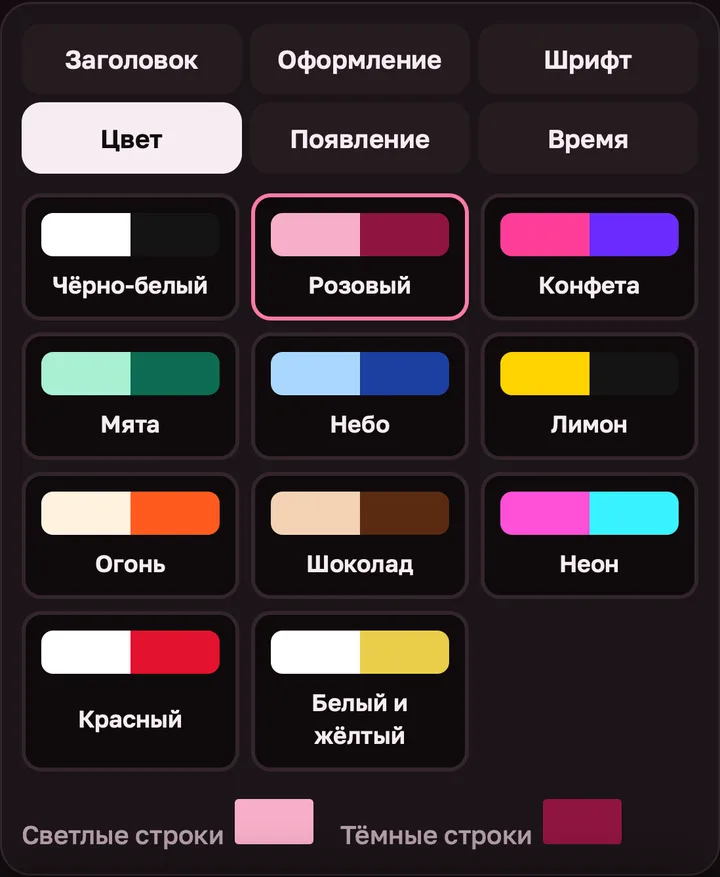
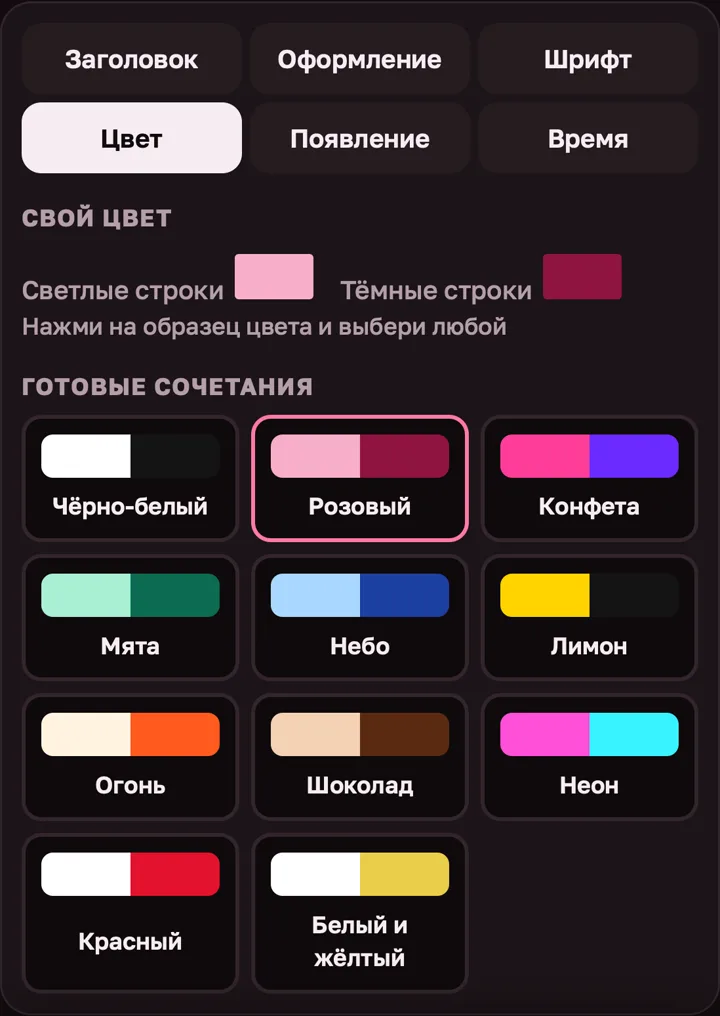
n-2f254e947957: инструкция Рилсовой под правки 03.11 (В галерею, текст в буфер при «Поделиться», Править, обращение, перевод, пост целиком, мои фразы, свой цвет первым)

diff --git a/n-2f254e947957/index.html b/n-2f254e947957/index.html
@@ -120,10 +120,18 @@
     <li><span class="btn-name">Другой вариант</span> - новые правки на тот же процент</li>
     <li><span class="btn-name">Скопировать</span> - забрать готовый текст, например в подпись к рилсу</li>
     <li><span class="btn-name">Очистить</span> - вернуть пустое окошко</li>
+    <li><span class="btn-name">Править</span> - результат снова станет полем, поправьте руками. Следующий процент переделает уже ваш вариант</li>
   </ul>
   <p>Текст под рилсом уникализируется так же, в своём окошке</p>
   <figure><img src="img/05-text.webp" width="720" height="774" alt="Текст под рилсом уникализирован, изменённые куски подсвечены" loading="lazy"><figcaption>Текст под рилсом после 10%</figcaption></figure>
   <div class="tip"><b>Тире.</b> Кнопка «Длинное тире → короткое» включена сразу: длинные тире «—» в тексте станут обычными «-»</div>
+  <ul>
+    <li><b>Обращение к читателю.</b> <span class="btn-name">На «ты»</span> или <span class="btn-name">На «вы»</span> перепишет обращение во всём тексте</li>
+    <li><b>Текст на английском.</b> В окошке появится <span class="btn-name">Перевести на русский</span>: сначала переведите, потом нажмите процент</li>
+    <li><b>Пост целиком.</b> Вставьте весь пост, например из банка тем, в окошко заголовка: первый абзац станет заголовком, остальное уйдёт в текст</li>
+    <li><b>Мои фразы.</b> Под текстом впишите свой призыв, ник или мост в начало и в конец. Они добавятся сами, когда скопируете текст или нажмёте «Поделиться»</li>
+    <li><b>Чужой ник.</b> Строку вроде «Подпишись @…» из чужого текста программа убирает сама</li>
+  </ul>
 </section>
 
 <section id="video">
@@ -175,8 +183,8 @@
   <figure><img src="img/10-tab-font.webp" width="720" height="984" alt="Вкладка Шрифт: список шрифтов" loading="lazy"></figure>
 
   <h3>Цвет</h3>
-  <p>Готовые палитры, первой чёрно-белая, или свои цвета для светлых и тёмных строк</p>
-  <figure><img src="img/11-tab-color.webp" width="720" height="877" alt="Вкладка Цвет: палитры и свои цвета" loading="lazy"></figure>
+  <p>Сверху «Свой цвет»: нажмите на образец и выберите любой цвет для светлых и тёмных строк. Ниже готовые сочетания, первым чёрно-белое</p>
+  <figure><img src="img/11-tab-color.webp" width="720" height="1016" alt="Вкладка Цвет: сначала свой цвет, ниже готовые сочетания" loading="lazy"></figure>
 
   <h3>Появление</h3>
   <p>Как заголовок появится в ролике: без анимации, выпрыгивает, падает сверху, по строкам или пульсирует</p>
@@ -191,10 +199,10 @@
   <h2><span class="n">7</span>Соберите видео и выложите</h2>
   <ol>
     <li>Нажмите <span class="btn-name">Собрать видео</span> и подождите: ролик на 7 секунд собирается примерно за 15 секунд</li>
-    <li><span class="btn-name">Поделиться</span> открывает меню телефона: там Instagram и «Сохранить видео». Можно выложить сразу, не сохраняя на телефон</li>
-    <li><span class="btn-name">Скачать</span> - сохранить файл</li>
+    <li><span class="btn-name">Поделиться</span> открывает меню телефона: там Instagram. Можно выложить сразу, не сохраняя на телефон. Текст под рилс программа в этот момент копирует сама: в Instagram вставьте его в подпись</li>
+    <li><span class="btn-name">В галерею</span> на айфоне откроет меню телефона: там нажмите «Сохранить видео». На компьютере и Android эта кнопка называется <span class="btn-name">Скачать</span></li>
   </ol>
-  <figure><img src="img/14-done.webp" width="720" height="130" alt="Видео собрано: кнопки Поделиться и Скачать" loading="lazy"></figure>
+  <figure><img src="img/14-done.webp" width="720" height="130" alt="Видео собрано: кнопки Поделиться и В галерею" loading="lazy"></figure>
   <div class="tip"><b>Звук.</b> Видео собирается без звука: музыку добавьте в Instagram при публикации</div>
 </section>
 
